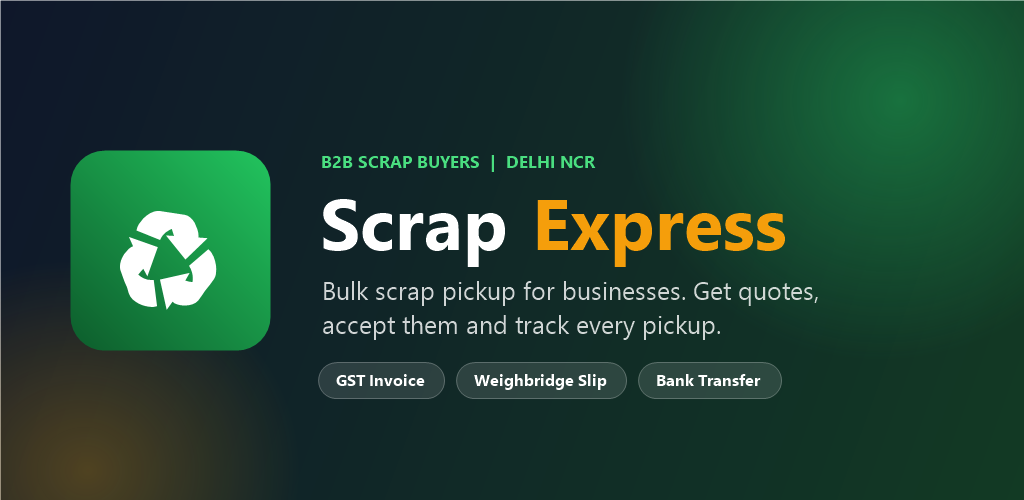
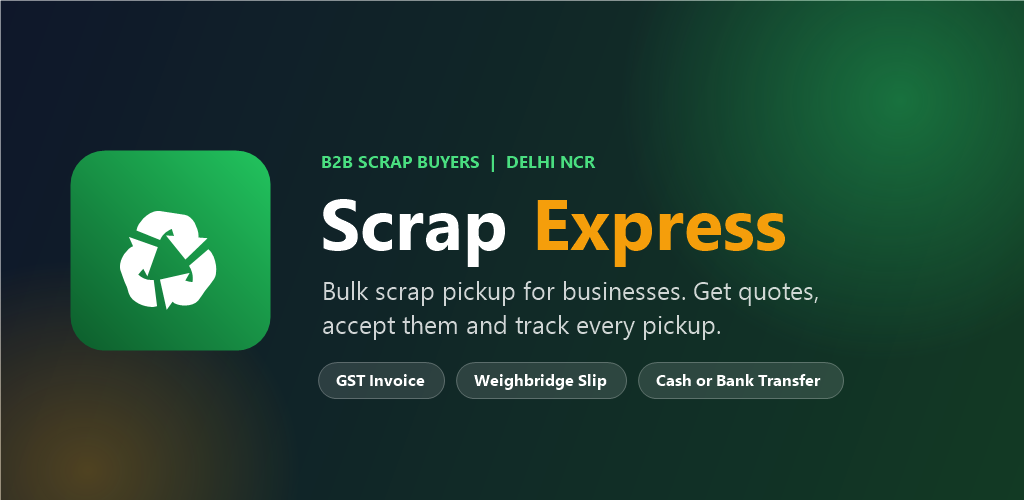
Offer payment by cash or bank transfer, not bank transfer only
Customers can now be paid whichever way they prefer, so the home page,
Bulk Pickup page, quote box, footer, page descriptions, app description,
rates email and Play Store listing and banner all say cash or bank
transfer. Drops "to your company account" and "record for audits", which
don't fit cash payments.

Changed region(s): [[0.625, 0.72, 0.8438, 0.81]]

diff --git a/server.js b/server.js
@@ -126,10 +126,10 @@ app.locals.statusLabels = {
 app.locals.formatQuoteRate = formatQuoteRate;
 
 const PAGES = [
-  { path: '/', view: 'index', page: 'home', title: 'Scrap Express - Bulk Scrap Buyers for Businesses in Delhi NCR', description: 'Scrap Express buys scrap in bulk from factories, offices, hospitals, schools, malls, hotels and restaurant chains across Delhi NCR. GST invoice, weighbridge slips and bank transfer payment.' },
+  { path: '/', view: 'index', page: 'home', title: 'Scrap Express - Bulk Scrap Buyers for Businesses in Delhi NCR', description: 'Scrap Express buys scrap in bulk from factories, offices, hospitals, schools, malls, hotels and restaurant chains across Delhi NCR. GST invoice, weighbridge slips and payment by cash or bank transfer.' },
   { path: '/rates', view: 'rates', page: 'rates', title: 'Indicative Scrap Rates in Delhi - Scrap Express', description: 'Indicative per-kg scrap rates in Delhi for paper, plastic, iron, copper, brass, aluminium, wires and more. Request a bulk quote for business volumes.' },
   { path: '/what-we-buy', view: 'what-we-buy', page: 'what-we-buy', title: 'What We Buy - Industrial & Office Scrap - Scrap Express', description: 'We buy AC plants, generators, motors, IT equipment, office furniture, glass and more from businesses across Delhi NCR. Quotes based on volume and condition.' },
-  { path: '/book-pickup', view: 'book-pickup', page: 'book-pickup', title: 'Request a Bulk Scrap Pickup in Delhi NCR - Scrap Express', description: 'Request a one-time or scheduled bulk scrap pickup from your factory, office or site in Delhi NCR. GST invoice, weighbridge slip, payment by bank transfer.' },
+  { path: '/book-pickup', view: 'book-pickup', page: 'book-pickup', title: 'Request a Bulk Scrap Pickup in Delhi NCR - Scrap Express', description: 'Request a one-time or scheduled bulk scrap pickup from your factory, office or site in Delhi NCR. GST invoice, weighbridge slip, payment by cash or bank transfer.' },
   { path: '/demolition', view: 'demolition', page: 'demolition', title: 'Commercial Demolition Services in Delhi NCR - Scrap Express', description: 'Demolition of schools, hospitals, factories, warehouses, malls and commercial buildings across Delhi NCR, with site survey and detailed quote.' },
   { path: '/privacy', view: 'privacy', page: 'privacy', title: 'Privacy Policy - Scrap Express', description: 'How Scrap Express collects, uses and protects information from customers of our website and app.' },
   { path: '/delete-account', view: 'delete-account', page: 'delete-account', title: 'Delete Your Account - Scrap Express', description: 'How to delete your Scrap Express account and what happens to your data.' },

diff --git a/lib/updates.js b/lib/updates.js
@@ -207,7 +207,7 @@ function ratesEmailHtml(digest, dateLabel) {
   return `<h2 style="margin:0 0 4px;font-size:20px">Today's scrap rates</h2>
     <p style="margin:0 0 16px;color:#64748b;font-size:14px">${escapeHtml(dateLabel)} · ${summary}</p>
     <table style="width:100%;border-collapse:collapse;font-size:15px">${rows}</table>
-    <p style="font-size:13px;color:#64748b;line-height:1.6;margin:18px 0">Indicative rates per unit. Business lots are priced on volume, grade and location. GST invoice, weighbridge slip and bank transfer on every pickup.</p>
+    <p style="font-size:13px;color:#64748b;line-height:1.6;margin:18px 0">Indicative rates per unit. Business lots are priced on volume, grade and location. GST invoice, weighbridge slip and payment by cash or bank transfer on every pickup.</p>
     <p style="margin:0"><a href="${SITE_URL}/book-pickup" style="background:#f59e0b;color:#0f172a;text-decoration:none;font-weight:bold;padding:12px 24px;border-radius:999px;display:inline-block">Request a Bulk Quote</a></p>`;
 }
 

diff --git a/store-assets/PLAY-STORE-GUIDE.md b/store-assets/PLAY-STORE-GUIDE.md
@@ -30,7 +30,7 @@ reaches the app automatically.
 > • Track all your pickup and demolition requests in one place
 > • Save your business details (GSTIN, site address) for faster booking
 >
-> Every pickup is weighed on a weighbridge, billed with a GST invoice and paid by bank transfer to your company account.
+> Every pickup is weighed on a weighbridge, billed with a GST invoice and paid by cash or bank transfer, whichever you prefer.
 >
 > We also handle demolition of commercial and institutional buildings, with a site survey and detailed quote.
 
